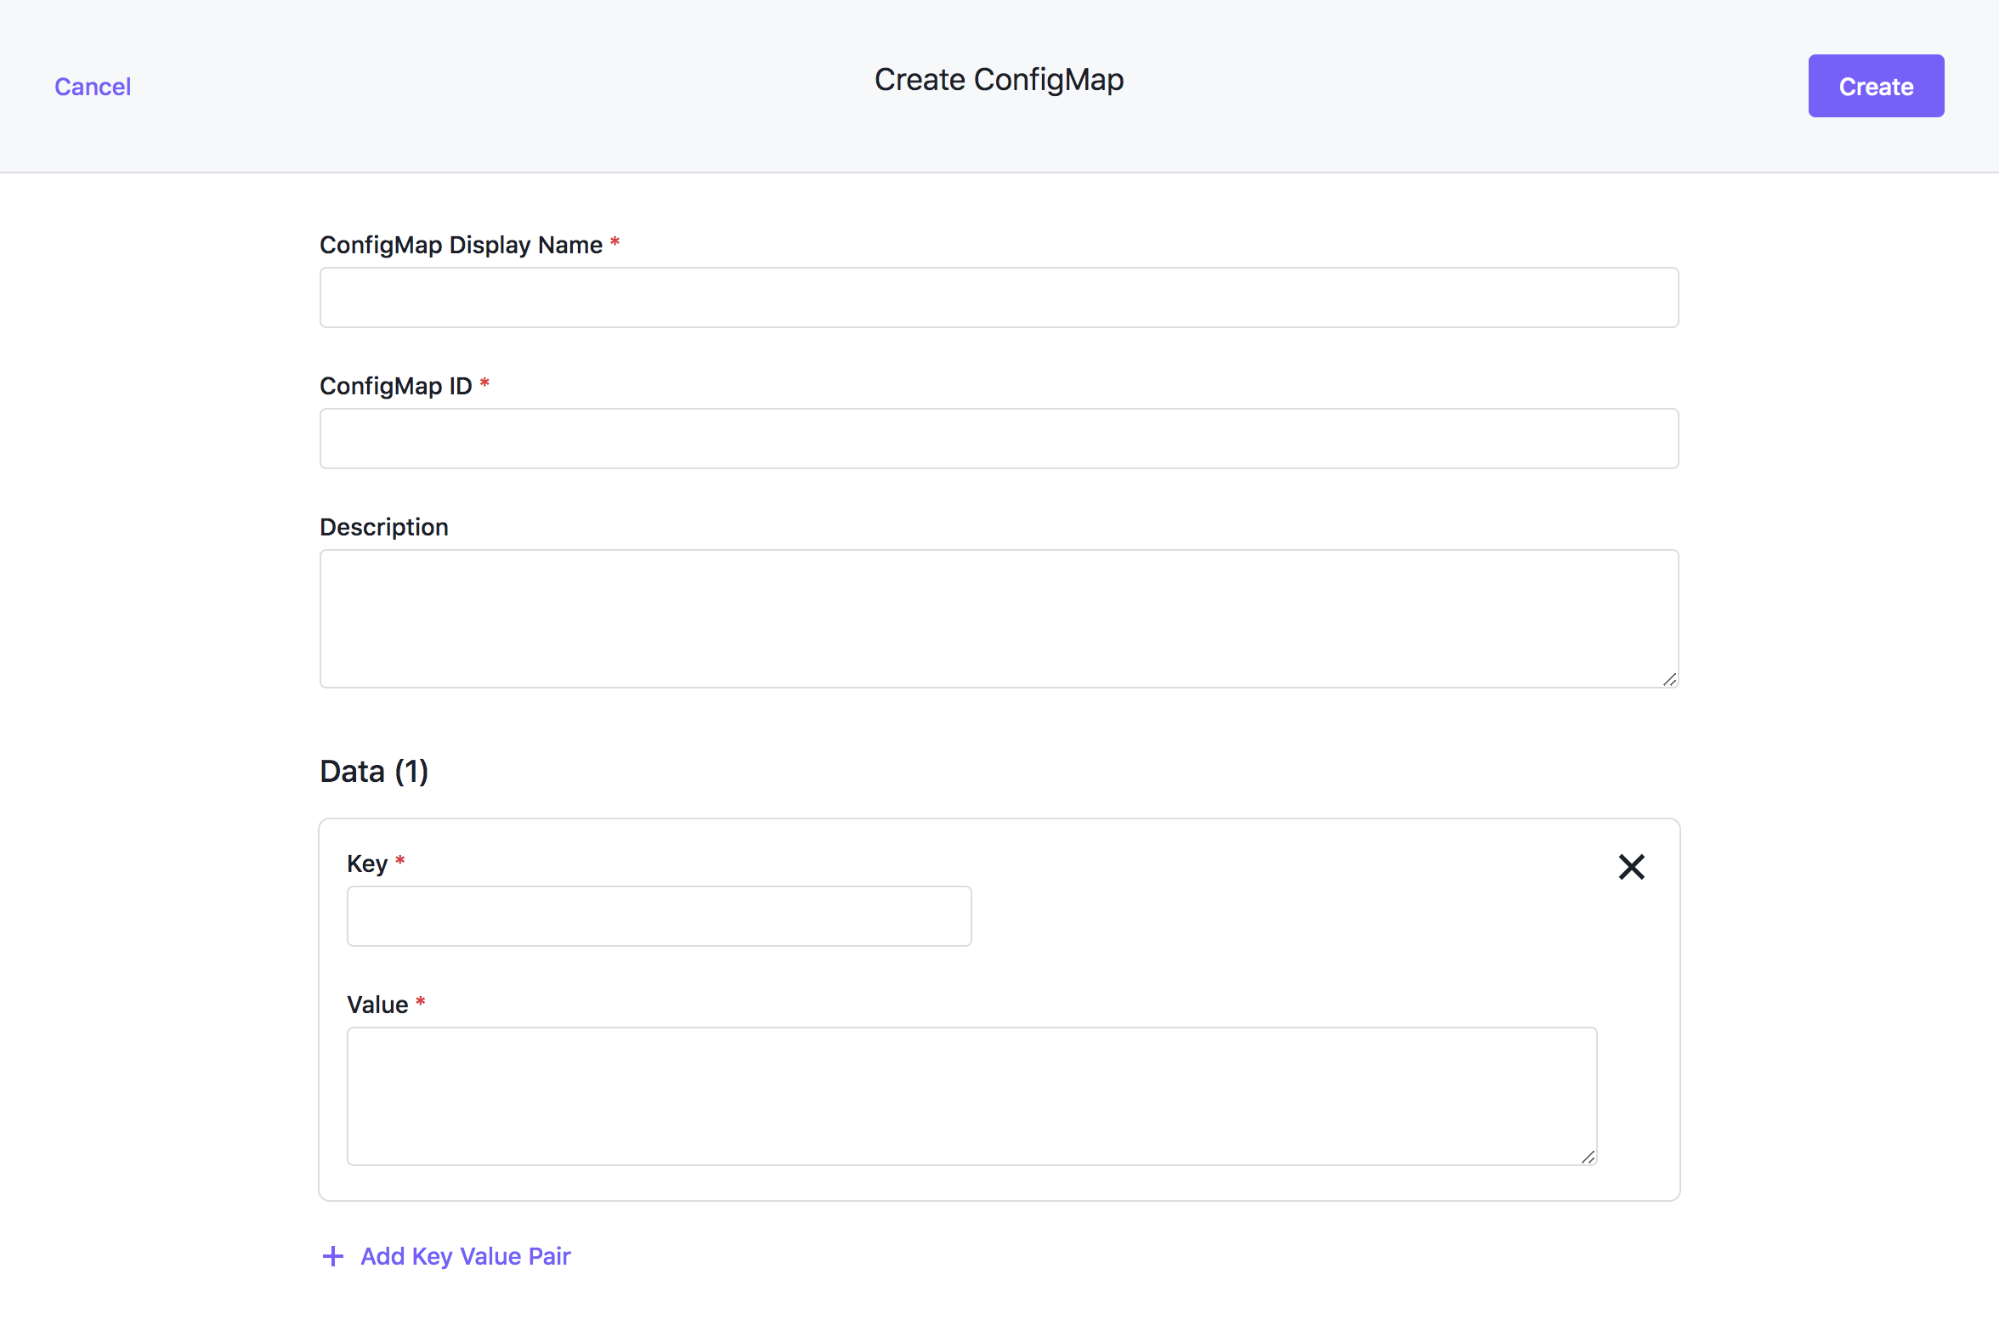
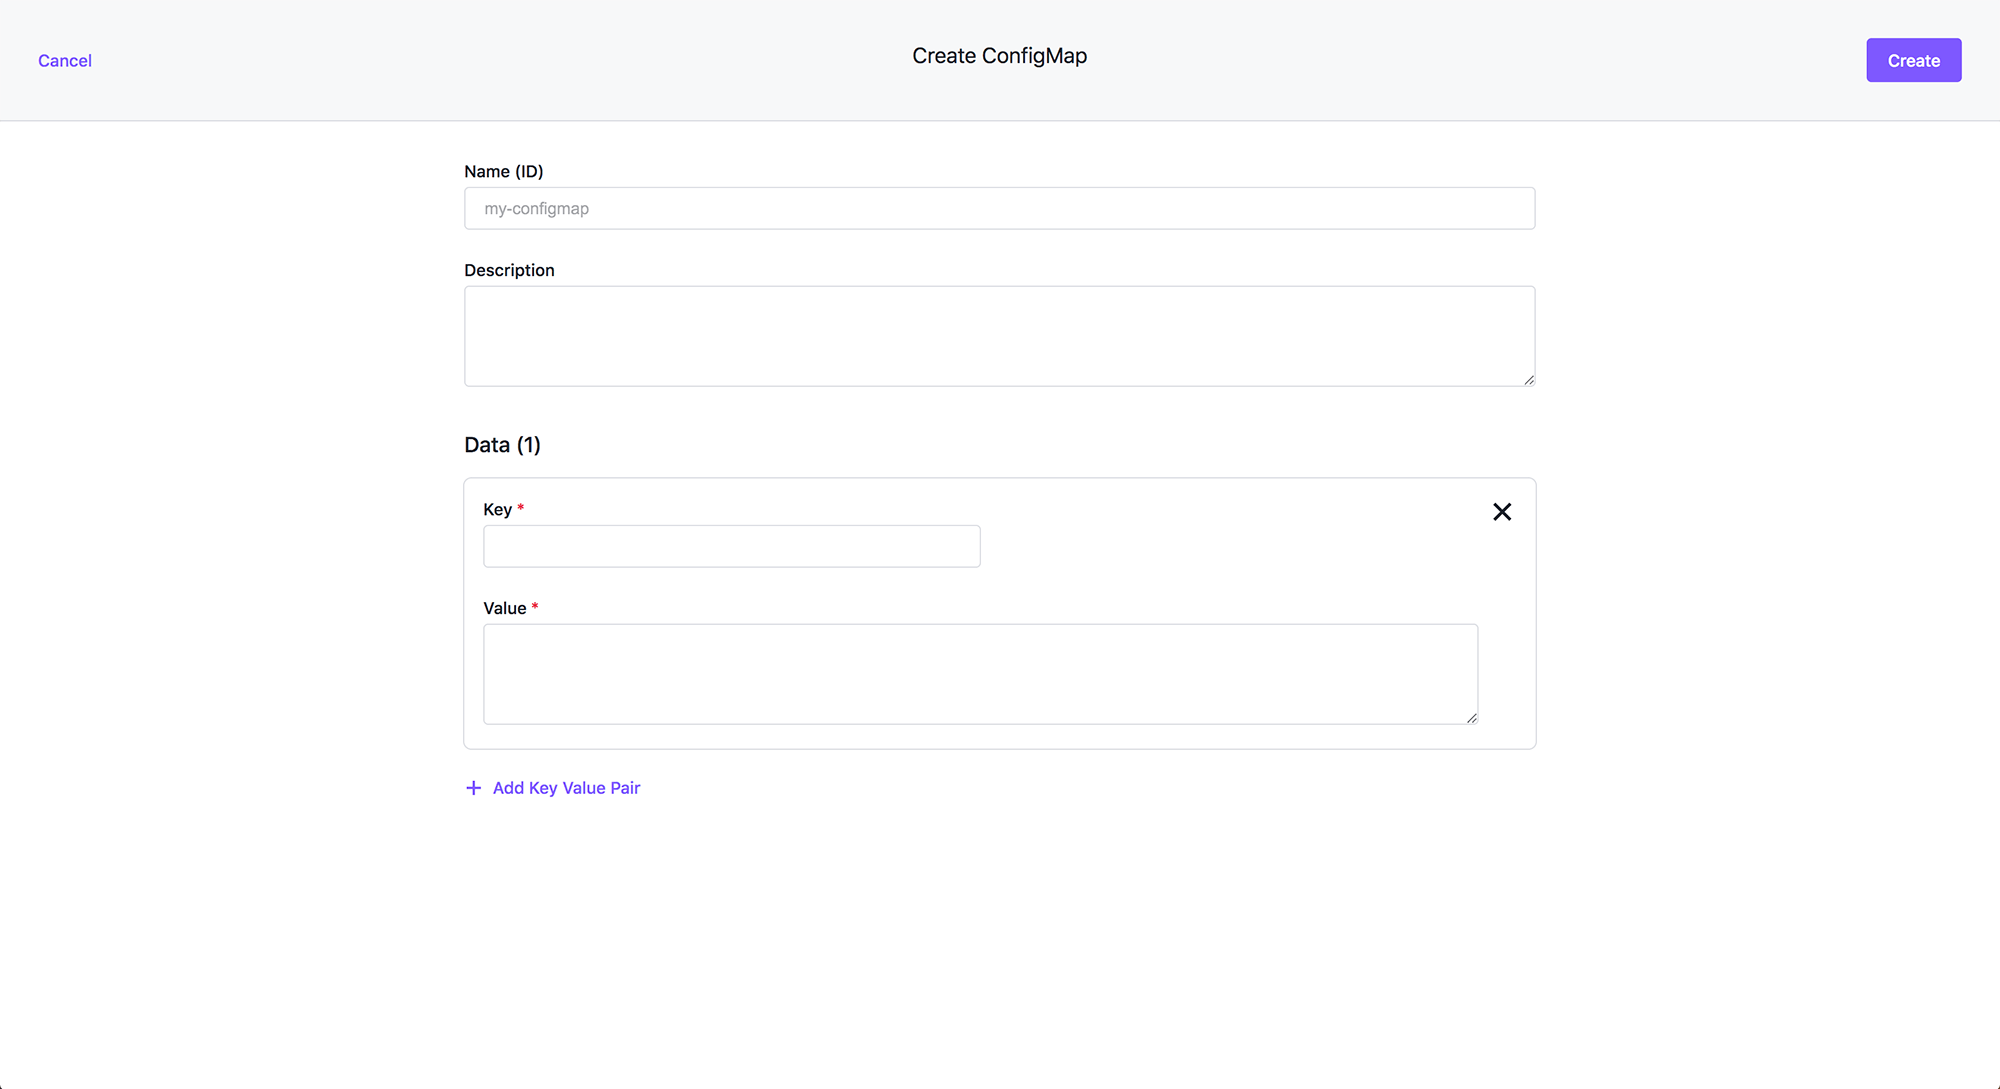
chore: removes references to removed display name fields
Closes D2IQ-72131

diff --git a/pages/ksphere/kommander/1.2/projects/project-secrets/index.md b/pages/ksphere/kommander/1.2/projects/project-secrets/index.md
@@ -21,8 +21,6 @@ cat << EOF | kubectl create -f -
 apiVersion: types.kubefed.io/v1beta1
 kind: FederatedSecret
 metadata:
-  annotations:
-    kommander.mesosphere.io/display-name: secret1
   generateName: secret1-
   namespace: ${projectns}
 spec:

diff --git a/pages/ksphere/kommander/1.2/projects/project-configmaps/index.md b/pages/ksphere/kommander/1.2/projects/project-configmaps/index.md
@@ -21,8 +21,6 @@ cat << EOF | kubectl create -f -
 apiVersion: types.kubefed.io/v1beta1
 kind: FederatedConfigMap
 metadata:
-  annotations:
-    kommander.mesosphere.io/display-name: cm1
   generateName: cm1-
   namespace: ${projectns}
 spec:
